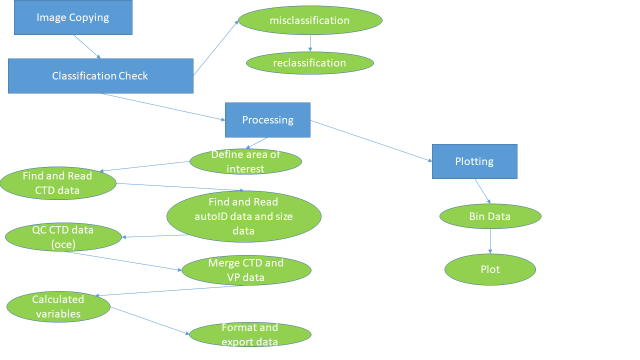
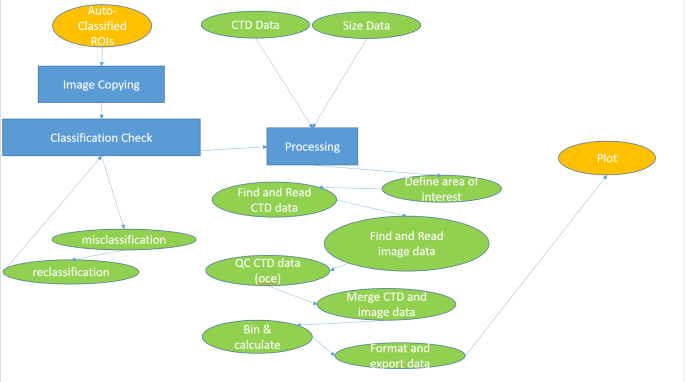
vignette and readme update (Issue #35)

diff --git a/README.md b/README.md
@@ -1,22 +1,15 @@
 
-<!-- README.md is generated from README.Rmd. Please edit that file -->
-
-# vprr <a href='https://eogrady21.github.io/vprr/'><img src='man/figures/vprr_hex.png' align="right" height="139" /></a>
-
+# vprr
 
 <!-- badges: start -->
-![R](https://github.com/eogrady21/vprr/actions/workflows/r.yml/badge.svg)
-[![CodeFactor](https://www.codefactor.io/repository/github/eogrady21/vprr/badge/main)](https://www.codefactor.io/repository/github/eogrady21/vprr/overview/main)
 <!-- badges: end -->
 
 The goal of vprr is to process Video Plankton Recorder (VPR) data in R.
-This package allows for manual classification of plankton images,
-calculation of important ecological metrics such as concentration of
-plankton, data visualization, and data output with self-contained
-metadata.
+This package allows for manual image classification, calculation of
+important ecological metrics such as concentration of plankton, data
+visualization, and data output with self-contained metadata.
 
-Detailed information about vprr and its use can be found in the
-VPR_processing vignette.
+Detailed information about vprr can be found in the package vignette.
 
 ## Installation
 
@@ -36,14 +29,11 @@ devtools::install_github("EOGrady21/vprr")
 
 ## Details
 
-vprr is designed to be used after processing VPR data with Visual
-Plankton (VP), a Matlab image classification software. Although not
-dependent on any specific elements of VP, the data processing is
-designed around VP file formats and directory structures. Visual
-Plankton code can be found: On GC code (for internal DFO users), within
-the dfo-mar-odis group, and ‘visual plankton’ project. For permission to
-view the project on GC code, contact
-<DataServicesDonnees@dfo-mpo.gc.ca>.
+vprr is designed to be used after processing VPR data with an automated
+image classification system. vprr utilizes file formats and directory
+structures consistent with those from Visual Plankton (VP), a Matlab
+image classification software designed for VPR datasets; however, vprr
+is not dependent on any specific elements of VP.
 
 All the technical details of vprr can be found in the package vignette,
 available through Rstudio or at <https://eogrady21.github.io/vprr/>
@@ -57,26 +47,26 @@ and green is text format data. This package represents ‘Processing and
 Visualization (R)’.
 
 The first element of processing VPR data is to classify the images
-collected. This can be done in VP (Visual Plankton - Matlab), using
-machine learning techniques and then checked and manually edited in
-vprr. vprr uses a GUI, called through `vpr_manual_classification()` to
-allow a user to review and change image classifications.
+collected. This can be done using machine learning techniques and then
+checked and manually edited in vprr. vprr uses a GUI, called through
+`vpr_manual_classification()` to allow a user to review and change image
+classifications.
 
 ![](vignettes/clf_check_3.png)
 
 Figure 2. A screenshot from the vprr manual reclassification process.
 VPR images are displayed in the RStudio Viewer (right), prompts are
-displayed in the RStudio console (left). Users are asked if VP
+displayed in the RStudio console (left). Users are asked if
 classifications are correct, if not, they are asked to select the proper
 classification from a pre-set list of categories.
 
 Once images have been properly classified, all data sources are
-combined, in order to analyze data and calculate relevant environmental
-metrics such as plankton concentration. Data from CTD files
-(`vpr_ctd_read()`) and image classification (`vpr_autoid_read()`) can be
-read in and combined into easy-to-use data frames. vprr can combine VPR
-CTD, and VPR image classifications into depth bins, and calculate
-concentration (`vpr_roi_concentration()`).
+combined, in order to analyze data and calculate metrics such as
+plankton concentration. Data from CTD files (`vpr_ctd_read()`) and image
+classification (`vpr_autoid_read()`) can be read in and combined into
+data frames. vprr can combine VPR CTD, and VPR image classifications
+into depth bins, and calculate concentration
+(`vpr_roi_concentration()`).
 
 After data is processed, it can be visualized for easy interpretation.
 Although this package does not focus on visualization, it does provide
